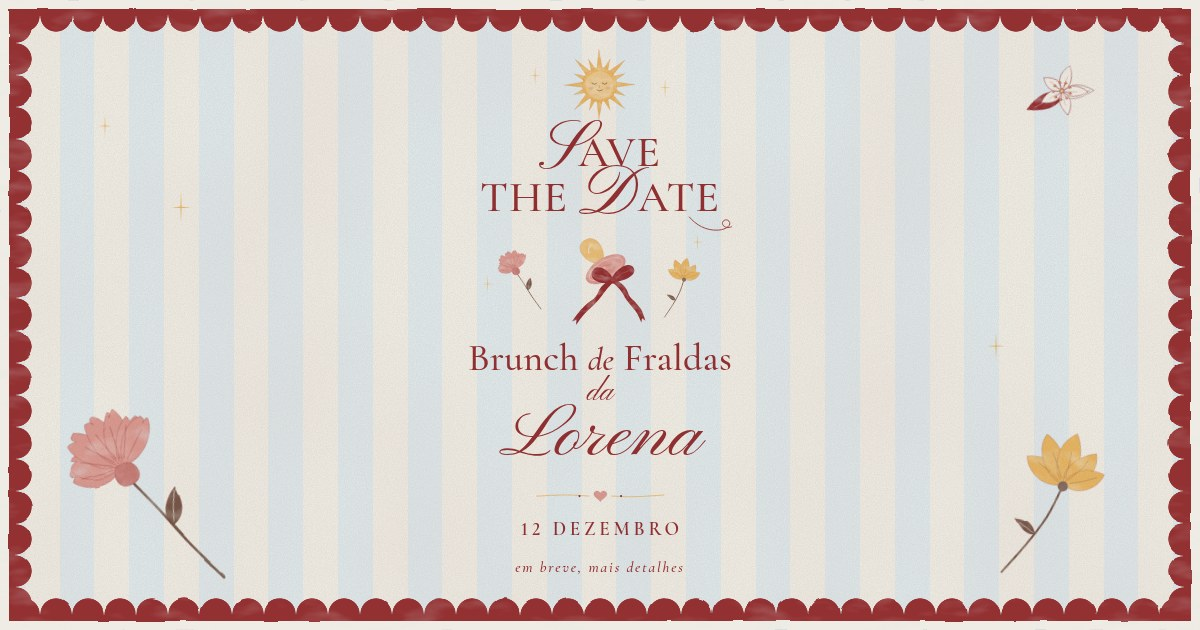
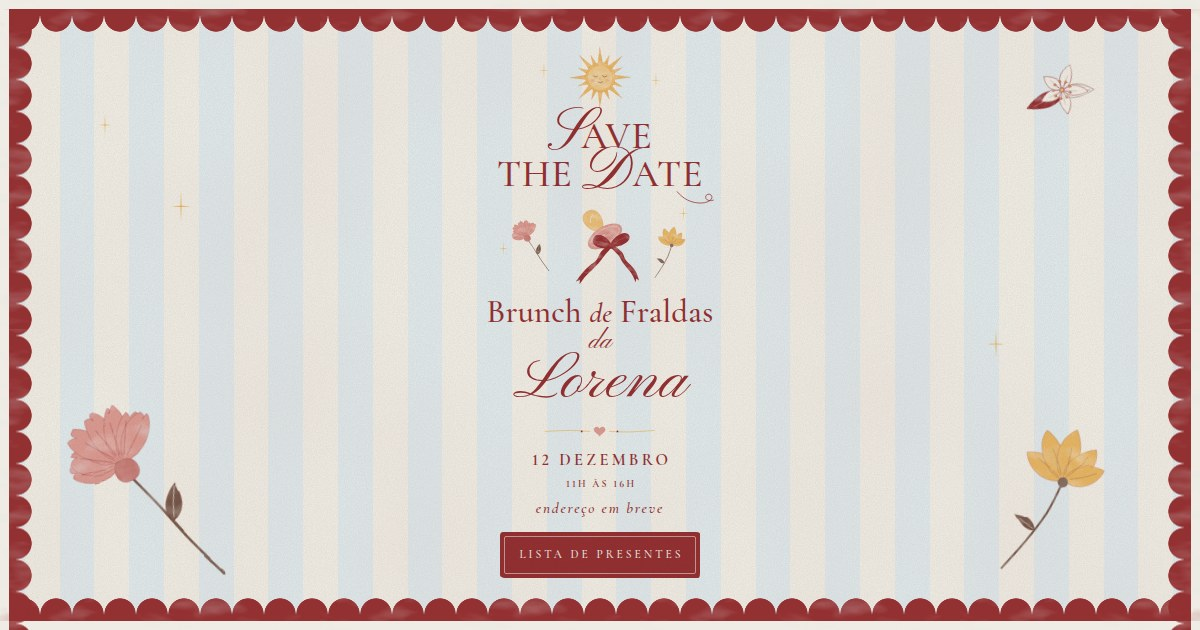
Convite Lorena: horário 11h às 16h, "endereço em breve" e botão da lista de presentes no cartão das duas cidades
Claude-Session: https://claude.ai/code/session_01BXY1h8oHqQ1vXQLVMYM9i5

diff --git a/app/lorena/lorena.css b/app/lorena/lorena.css
@@ -547,6 +547,32 @@
   letter-spacing: 0.12em;
 }
 
+/* City card: time, "endereço em breve" and the gift-list button under the date */
+.lw-hero__time {
+  margin: calc(0.9 * var(--u)) 0 0;
+  font-family: var(--font-display);
+  font-size: calc(2 * var(--u));
+  font-weight: 600;
+  letter-spacing: 0.22em;
+  text-indent: 0.22em;
+  text-transform: uppercase;
+}
+.lw-hero__time + .lw-hero__note { margin-top: calc(1.1 * var(--u)); }
+.lw-hero__gifts { margin-top: calc(2.4 * var(--u)); }
+.lw-hero__gifts .lw-btn {
+  min-height: max(46px, calc(6 * var(--u)));
+  padding: calc(1.5 * var(--u)) calc(3.4 * var(--u));
+  font-size: max(0.72rem, calc(1.5 * var(--u)));
+}
+/* the extra lines need more height units so the card still fits one screen */
+.lw-hero:has(.lw-hero__gifts) {
+  --u: min(calc((100vh - 2 * var(--frame)) / 114), 1.5vw);
+  --u: min(calc((100svh - 2 * var(--frame)) / 114), 1.5vw);
+}
+@media (max-width: 720px) {
+  .lw-hero:has(.lw-hero__gifts) { --u: min(calc((100svh - 2 * var(--frame)) / 114), 1.72vw); }
+}
+
 .lw-scroll-cue {
   position: absolute;
   bottom: calc(var(--frame) + 12px);

diff --git a/lib/lorena/content.ts b/lib/lorena/content.ts
@@ -21,7 +21,7 @@ export function getContent(slug: EditionSlug) {
 
     meta: {
       title: `Brunch de Fraldas da Lorena · ${e.day} de ${e.month}`,
-      description: `Save the date — Brunch de Fraldas da Lorena, ${e.day} de ${e.month}.`,
+      description: `Save the date — Brunch de Fraldas da Lorena, ${e.day} de ${e.month}, ${e.time}.`,
     },
 
     hero: {
@@ -31,7 +31,11 @@ export function getContent(slug: EditionSlug) {
       name: "Lorena",
       day: e.day,
       month: e.month,
-      note: "em breve, mais detalhes",
+      time: e.time,
+      note: "endereço em breve",
+      /** botão no cartão; "" esconde */
+      giftsUrl: "/lista-de-presentes",
+      giftsLabel: "Lista de presentes",
     },
 
     invitation: {
@@ -46,7 +50,7 @@ export function getContent(slug: EditionSlug) {
       day: e.day,
       month: e.month,
       note: "Guarde este dia no calendário e no coração.",
-      time: e.time === "A confirmar" ? "Horário a confirmar" : e.time,
+      time: (e.time as string) === "A confirmar" ? "Horário a confirmar" : e.time,
     },
 
     details: {

diff --git a/components/lorena/sections/Hero.tsx b/components/lorena/sections/Hero.tsx
@@ -127,9 +127,19 @@ export function Hero({ content, more = true, choices }: { content: Content; more
             <p className="lw-hero__date lw-load" style={d(2450)}>
               {h.day} {h.month}
             </p>
+            <p className="lw-hero__time lw-load" style={d(2550)}>
+              {h.time}
+            </p>
             <p className="lw-hero__note lw-load" style={d(2650)}>
               {h.note}
             </p>
+            {h.giftsUrl && (
+              <div className="lw-hero__gifts lw-load" style={d(2850)}>
+                <StationeryButton href={h.giftsUrl} external={false}>
+                  {h.giftsLabel}
+                </StationeryButton>
+              </div>
+            )}
           </>
         )}
       </div>

diff --git a/lib/lorena/editions.ts b/lib/lorena/editions.ts
@@ -9,7 +9,7 @@ export const editions = {
     city: "Caxias do Sul",
     day: "14",
     month: "Novembro",
-    time: "A confirmar",
+    time: "11h às 16h",
     venue: "[Nome do local]",
     address: "[Endereço completo]",
     mapUrl: "", // ex.: "https://maps.google.com/?q=..."
@@ -19,7 +19,7 @@ export const editions = {
     city: "Novo Hamburgo",
     day: "12",
     month: "Dezembro",
-    time: "A confirmar",
+    time: "11h às 16h",
     venue: "[Nome do local]",
     address: "[Endereço completo]",
     mapUrl: "",

diff --git a/docs/lorena/README.md b/docs/lorena/README.md
@@ -1,12 +1,12 @@
 # Lorena — convite digital · SOP
 
-Textos: `lib/lorena/content.ts` · Cidades e datas: `lib/lorena/editions.ts` · Fase atual: **save the date** (`showDetails: false`)
+Textos: `lib/lorena/content.ts` · Cidades, datas e horário: `lib/lorena/editions.ts` · Fase atual: **save the date** (`showDetails: false`) com horário, "endereço em breve" e botão da lista no cartão (`hero` em `content.ts`)
 
 | Endereço | Edição |
 |---|---|
 | `convitelorena.vercel.app` | cartão com botões: Caxias do Sul · Novo Hamburgo |
-| `convitelorena.vercel.app/caxias-dos-sul` | Caxias do Sul · 14 de Novembro |
-| `convitelorena.vercel.app/novo-hamburgo` | Novo Hamburgo · 12 de Dezembro |
+| `convitelorena.vercel.app/caxias-dos-sul` | Caxias do Sul · 14 de Novembro · 11h às 16h |
+| `convitelorena.vercel.app/novo-hamburgo` | Novo Hamburgo · 12 de Dezembro · 11h às 16h |
 | `convitelorena.vercel.app/lista-de-presentes` | lista de presentes compartilhada (as duas cidades) |
 
 **Nova cidade:** copie um bloco em `editions.ts`, troque o slug (vira a URL) e os dados, e gere a prévia `public/lorena/og-<slug>.jpg`. Local, endereço, horário, mapa e prazo do RSVP também ficam por cidade em `editions.ts`.
